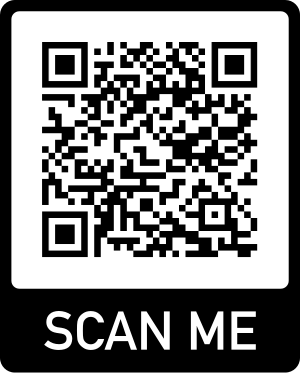
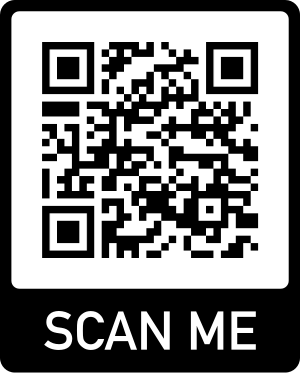
updating readme

Changed region(s): [[0.12, 0.0885, 0.87, 0.7078]]

diff --git a/index.html b/index.html
@@ -89,3 +89,5 @@
 </body>
 </html>
 
+
+

diff --git a/README.md b/README.md
@@ -1,2 +1,8 @@
 # android-project
  HTML/ CSS project telling some curiosities about the tech brand "Android"
+
+ You can access full project <a href="https://tarcisiopatricio.github.io/android-project/" target="_blank">here</a>.
+
+ Also via QR-CODE:
+ <img src="imagens/frame.png" alt="qrcode">
+u
